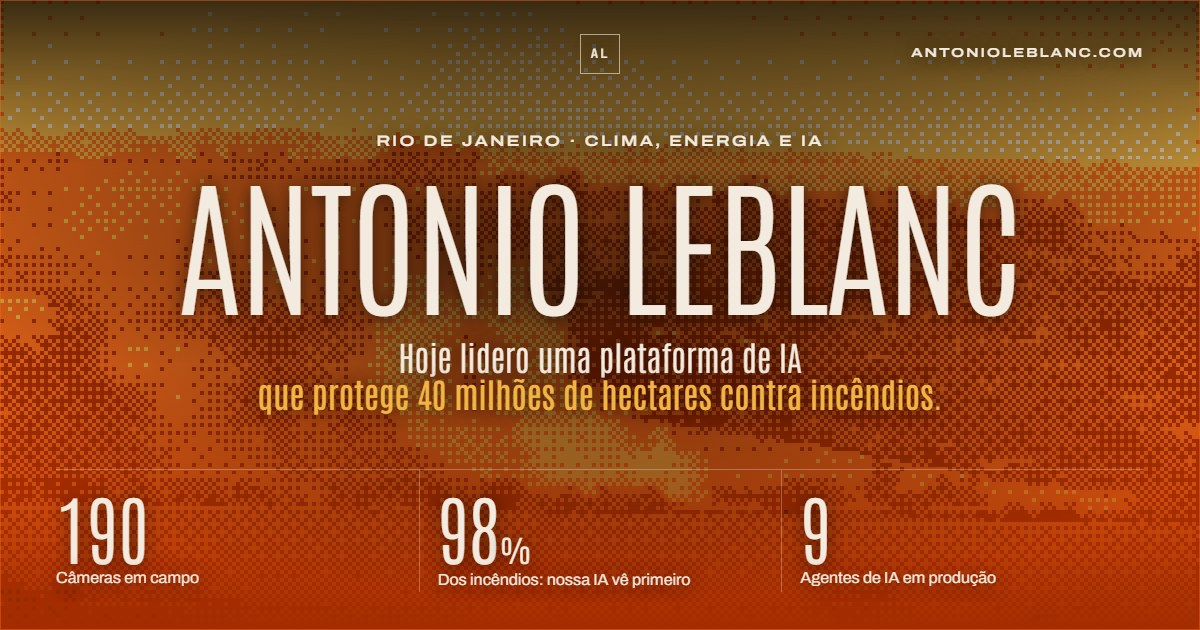
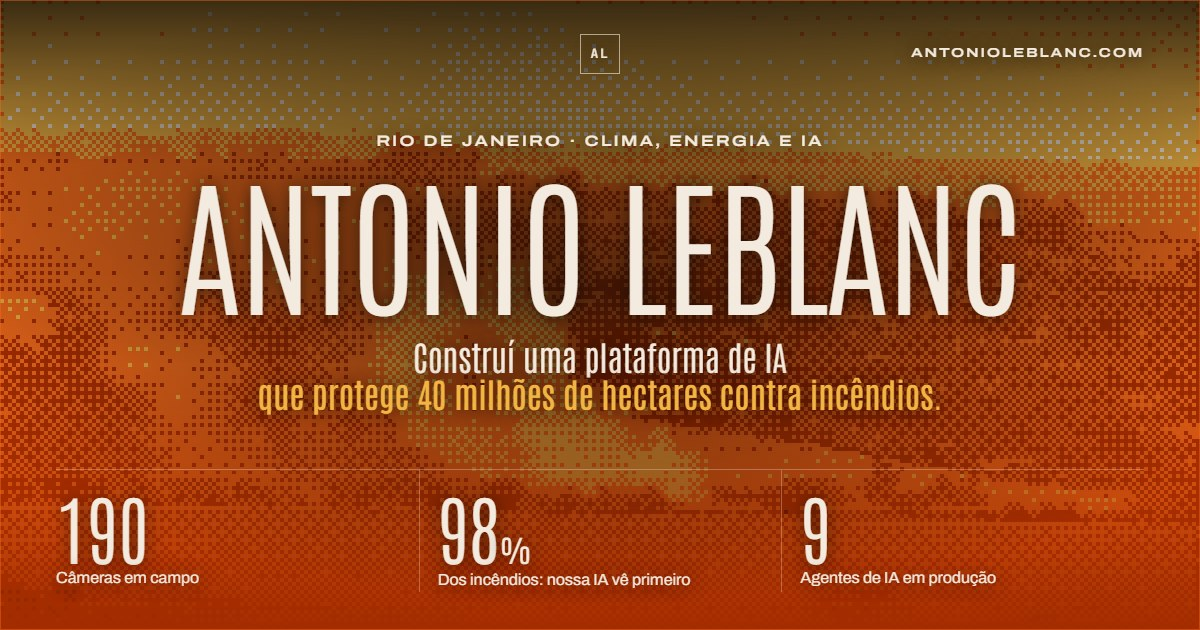
copy(home): título do hero abre por "I built" / "Construí"

Changed region(s): [[0.3083, 0.5429, 0.6783, 0.6032]]

diff --git a/_src/og/og.html b/_src/og/og.html
@@ -53,10 +53,10 @@
   var T = {
     home: {
       en: { eyebrow: 'Rio de Janeiro · Climate, energy &amp; AI', title: 'Antonio Leblanc',
-            lede: 'Today I lead an AI platform <b>that protects 40 million hectares from wildfires.</b>',
+            lede: 'I built an AI platform <b>that protects 40 million hectares from wildfires.</b>',
             g: [['190', 'Cameras in the field'], ['98<small>%</small>', 'Of fires: our AI sees them first'], ['9', 'AI agents in production']] },
       pt: { eyebrow: 'Rio de Janeiro · Clima, energia e IA', title: 'Antonio Leblanc',
-            lede: 'Hoje lidero uma plataforma de IA <b>que protege 40 milhões de hectares contra incêndios.</b>',
+            lede: 'Construí uma plataforma de IA <b>que protege 40 milhões de hectares contra incêndios.</b>',
             g: [['190', 'Câmeras em campo'], ['98<small>%</small>', 'Dos incêndios: nossa IA vê primeiro'], ['9', 'Agentes de IA em produção']] }
     },
     pantera: {

diff --git a/pt/index.html b/pt/index.html
@@ -282,7 +282,7 @@
         <div class="inner">
           <div class="label">Rio de Janeiro · Clima, energia e IA</div>
           <h1 class="display">Antonio Leblanc</h1>
-          <p class="lede">Hoje lidero uma plataforma de IA <b>que protege 40 milhões de hectares contra incêndios florestais.</b></p>
+          <p class="lede">Construí uma plataforma de IA <b>que protege 40 milhões de hectares contra incêndios florestais.</b></p>
           <div class="btns">
             <a class="btn" href="/assets/cv/antonio-leblanc-curriculo.pdf">Currículo</a>
             <a class="btn primary" href="#contact">Fale comigo</a>

diff --git a/index.html b/index.html
@@ -282,7 +282,7 @@
         <div class="inner">
           <div class="label">Rio de Janeiro · Climate, energy &amp; AI</div>
           <h1 class="display">Antonio Leblanc</h1>
-          <p class="lede">Today I lead an AI platform <b>that protects 40 million hectares from wildfires.</b></p>
+          <p class="lede">I built an AI platform <b>that protects 40 million hectares from wildfires.</b></p>
           <div class="btns">
             <a class="btn" href="/assets/cv/antonio-leblanc-resume.pdf">Resume</a>
             <a class="btn primary" href="#contact">Get in touch</a>
